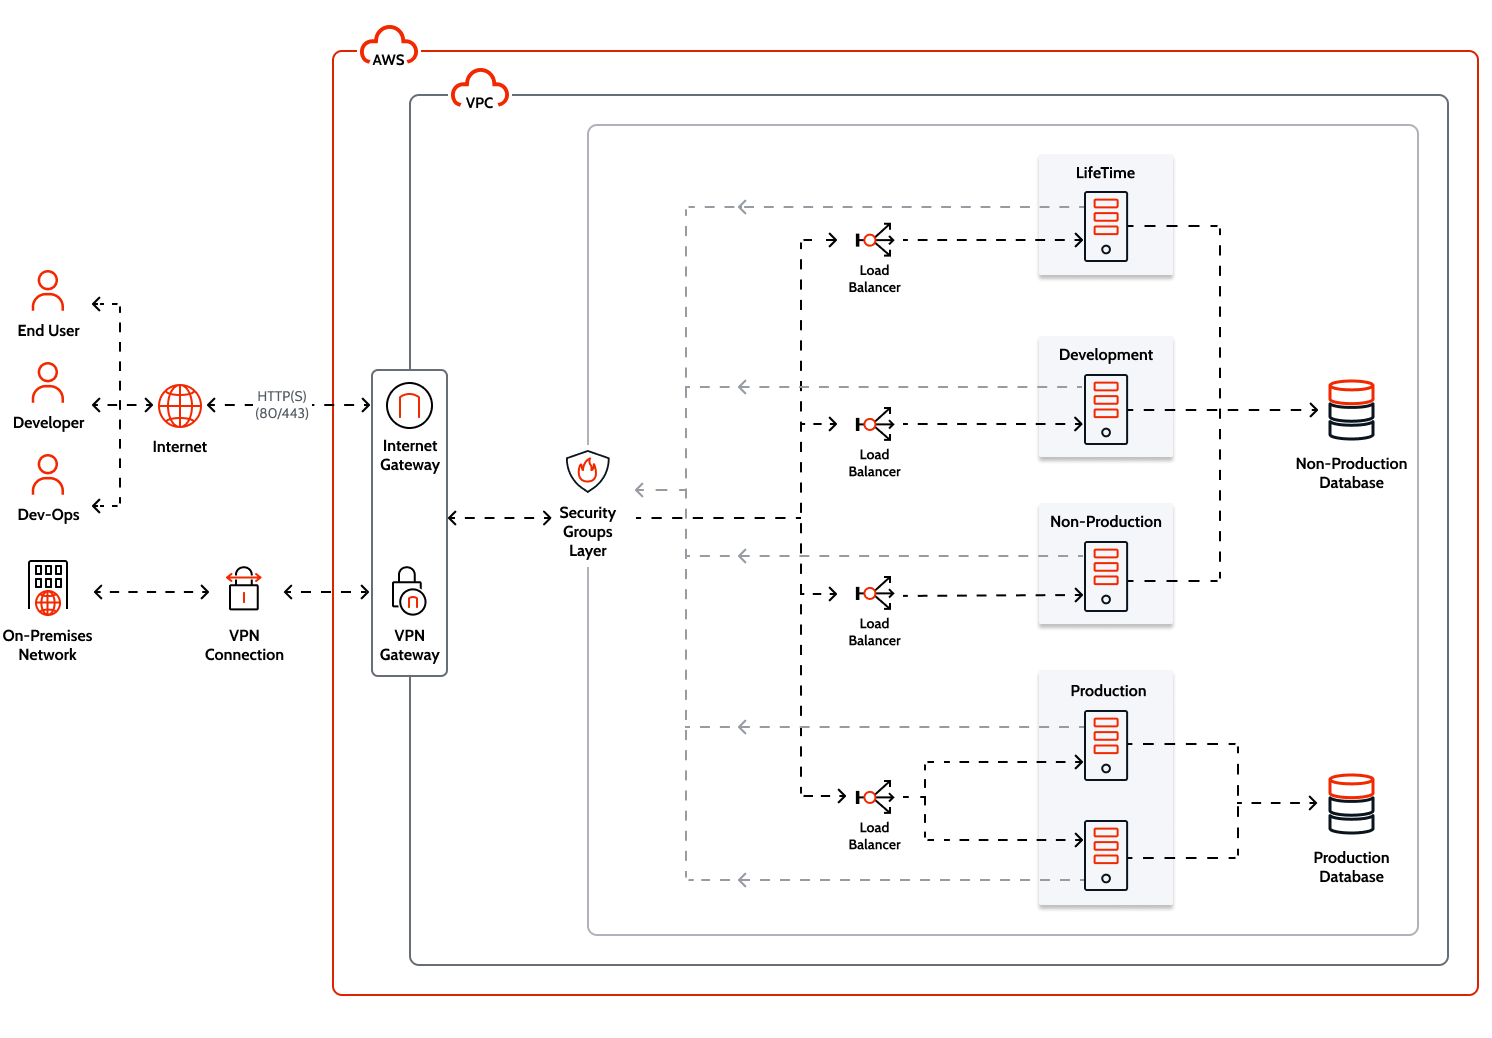
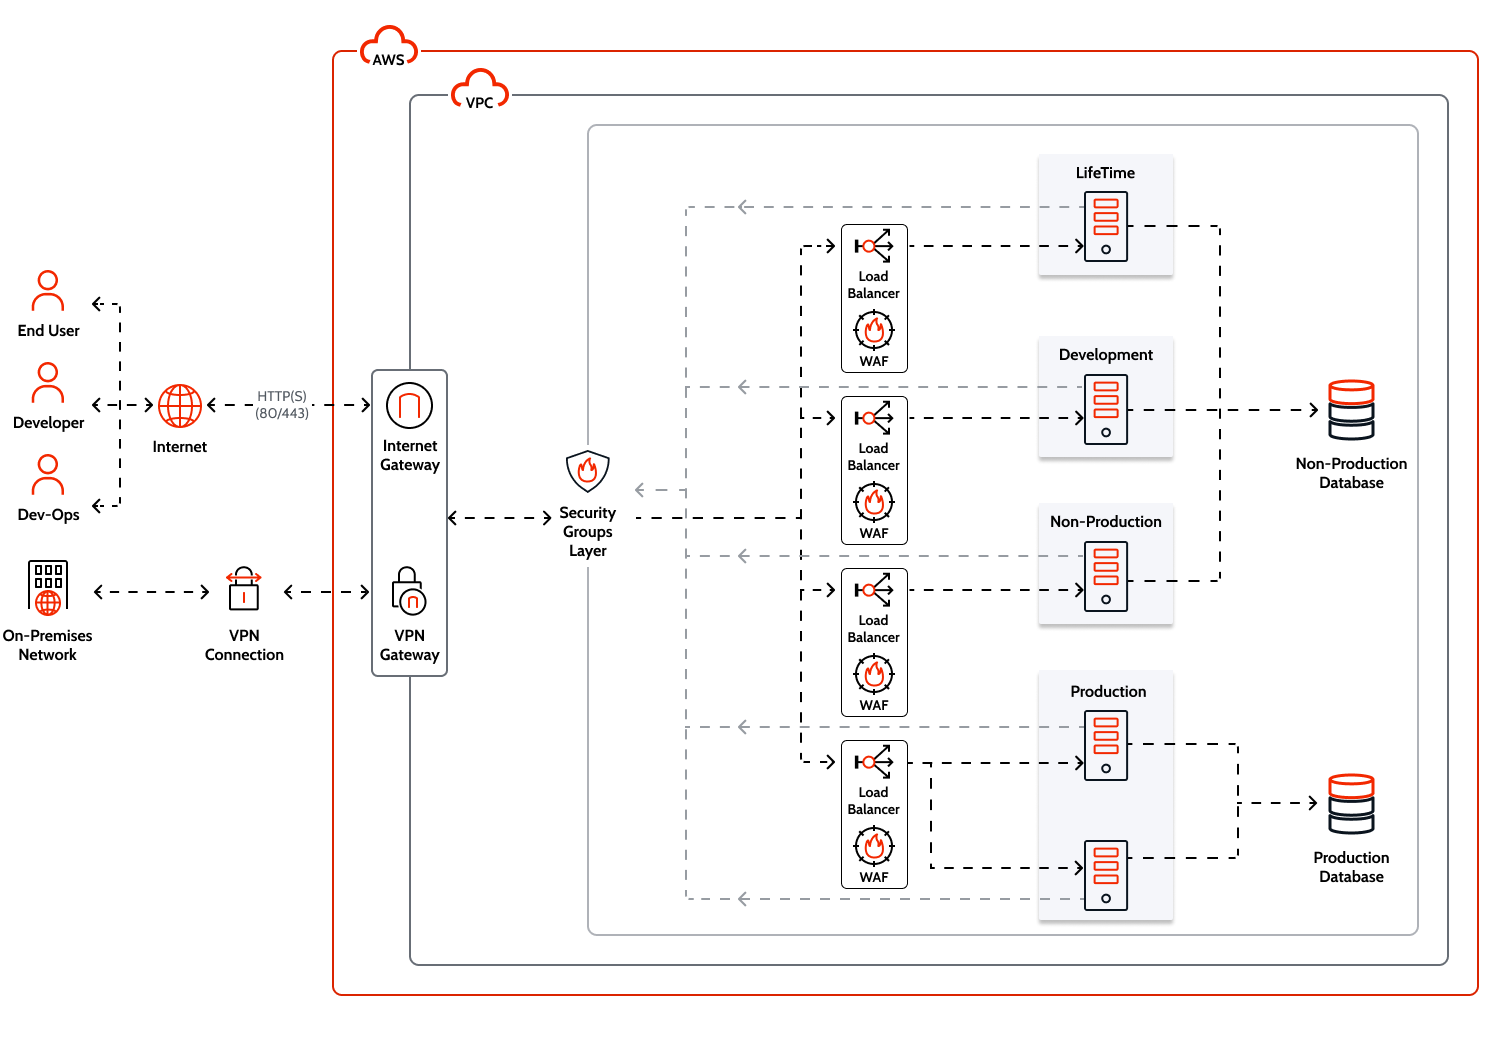
Added WAF, which is now part of the base setup.

diff --git a/src/setup/possible-setups/cloud-architecture.md b/src/setup/possible-setups/cloud-architecture.md
@@ -9,11 +9,13 @@ OutSystems Cloud is a public cloud having the physical infrastructure hosted in 
 
 ## Dedicated cloud
 
-Each customer has a dedicated set of virtual machines and database instances protected inside a dedicated [Virtual Private Cloud (VPC)](https://aws.amazon.com/vpc/), which is logically isolated from the internet and other virtual networks in the AWS cloud.
+Each customer has a **dedicated set of virtual machines and database instances** protected inside a dedicated [Virtual Private Cloud (VPC)](https://aws.amazon.com/vpc/), which is logically isolated from the internet and other virtual networks in the AWS cloud.
 
-OutSystems provides segregated environments for development, testing, and production, running on different virtual server instances.
+OutSystems provides **segregated environments** for development, testing, and production, running on different virtual server instances.
 
 OutSystems Cloud uses a layer of [AWS Security Groups](https://docs.aws.amazon.com/vpc/latest/userguide/VPC_SecurityGroups.html), acting as firewalls, to control the traffic allowed between the customer environments and the internet. The several Security Groups define a granular access control per environment and per asset.
+
+Additionally, OutSystems shields each environment using a **Web Application Firewall (WAF)**, which blocks malicious traffic from reaching the running web applications. To ensure that OutSystems keeps full flexibility on the reaction to evolving security threats, maximum availability, and compatibility with OutSystems product evolution, the same WAF's policies apply to all customers.
 
 The diagram below shows the **network architecture** of the base setup for an OutSystems Cloud Standard Edition, including the set of **servers** and the **inbound/outbound communications** between the customer’s infrastructure and the internet:
 
